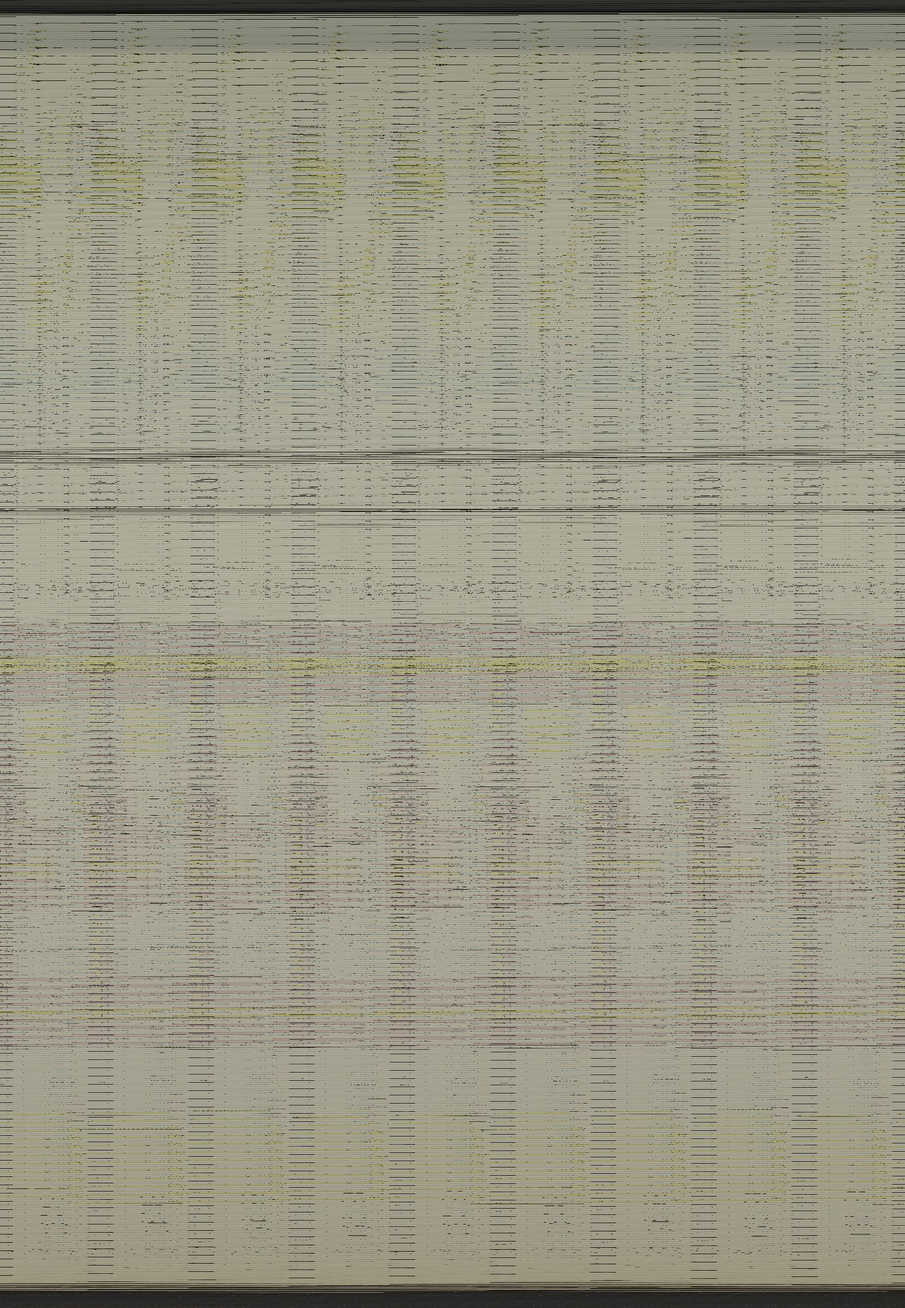
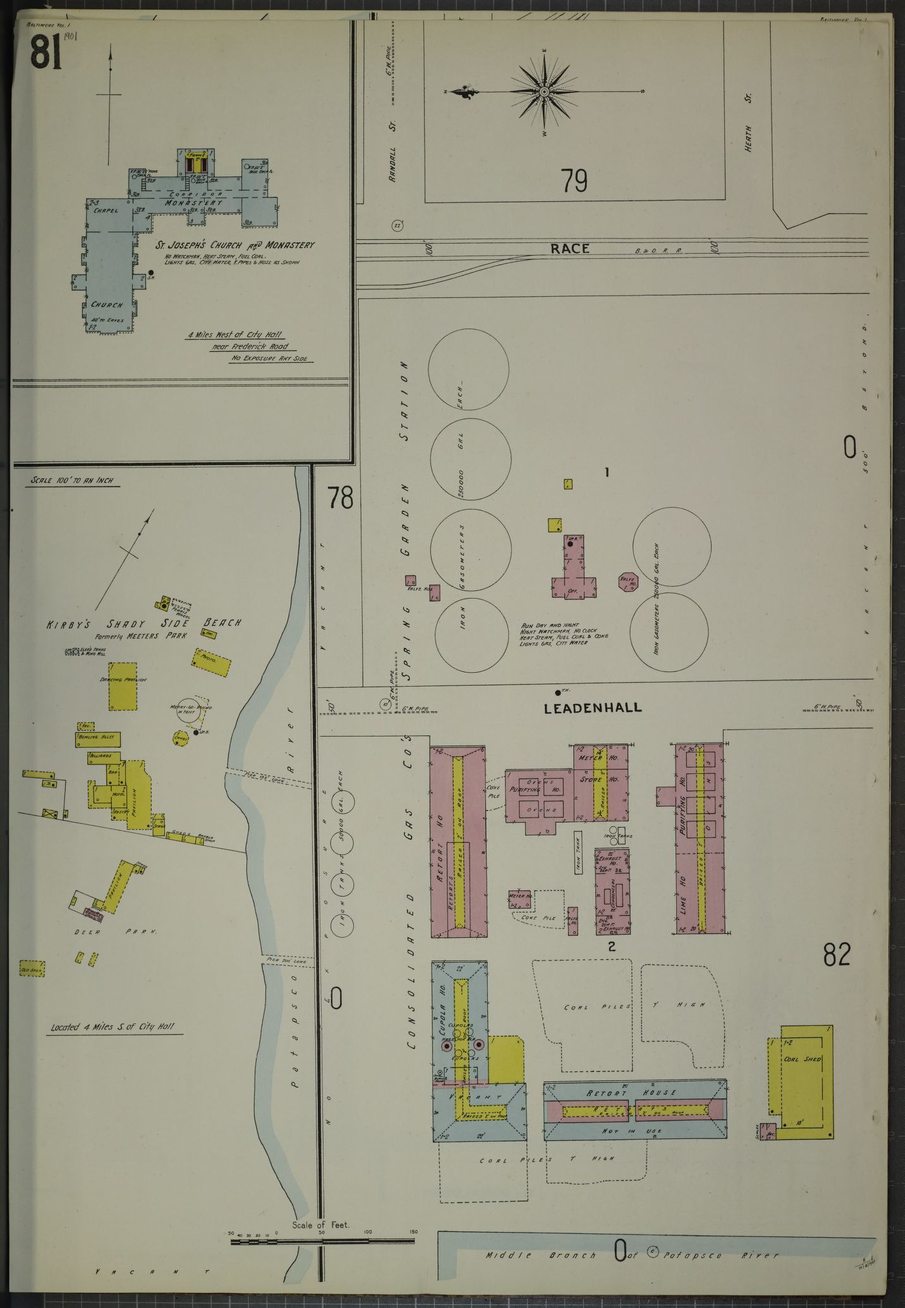
design change

Changed region(s): [[0.0, 0.0, 1.0, 1.0]]

diff --git a/static/energy_urbanization/index.html b/static/energy_urbanization/index.html
@@ -20,7 +20,7 @@
     <img src="images/gasworks.jpg" alt="">
   </figure>
   <section class="home-hero">
-    <h1>Energy and Urbanization</h1>
+    <h1>Energetic Urbanization</h1>
     <p class="lede"> Iterative processes of energy transformation and industrial change reshape the social and spatial organization of cities. Understanding how cities are structured today requires a longer view of this energetic and environmental history.</p>
     <!-- Filled by js/tally.js, which reads the counts straight from the workbook. -->
     <p class="map-tally" id="map-tally" data-workbook="data/atlas.xlsx"></p>

diff --git a/static/energy_urbanization/map.html b/static/energy_urbanization/map.html
@@ -3,7 +3,7 @@
 <head>
 <meta charset="utf-8">
 <meta name="viewport" content="width=device-width, initial-scale=1">
-<title>MGI Atlas</title>
+<title>Coal Gas Atlas</title>
 <link rel="preconnect" href="https://fonts.googleapis.com">
 <link rel="preconnect" href="https://fonts.gstatic.com" crossorigin>
 <link href="https://fonts.googleapis.com/css2?family=Literata:ital,opsz,wght@0,7..72,400;0,7..72,600;1,7..72,400&family=Public+Sans:wght@400;600&display=swap" rel="stylesheet">

diff --git a/themes/blowfish/assets/css/custom.css b/themes/blowfish/assets/css/custom.css
@@ -25,7 +25,7 @@ a.text-base.font-medium.text-gray-500.hover\:text-gray-900 {
    Tailwind's "md" breakpoint (853px) was too narrow for the full menu text,
    so items wrapped onto two lines just before the hamburger took over.
    Force the collapsed (hamburger) state until 1024px instead. */
-@media (min-width: 853px) and (max-width: 1125px) {
+@media (min-width: 853px) and (max-width: 853px) {
   .main-menu nav.hidden.md\:flex {
     display: none;
   }

diff --git a/static/energy_urbanization/js/site.js b/static/energy_urbanization/js/site.js
@@ -3,8 +3,8 @@
    and footer on EVERY page at once.
    ========================================================== */
 const SITE = {
-  title: "Energy and Urbanization",                 // <- replace with your project name
-  tagline: "A short line describing the project",
+  title: "Energetic Urbanization",                 // <- replace with your project name
+  tagline: "",
 
   // Menu items: label shown, and the page it links to
   menu: [

diff --git a/content/_index.md b/content/_index.md
@@ -6,6 +6,8 @@ layout: "simple"
 &nbsp; &nbsp; &nbsp; **University of Chicago,**  Department of Sociology and Mansueto Institute for Urban Innovation
 
 
+
+
 <img src="/images/portrait_square.jpeg" style="float: left; width: 26.5%; margin:0 1.25rem 0rem 0">
 </a>
 
@@ -16,8 +18,11 @@ My research focuses on society-environment relations and linked social-environme
 My work has appeared in *Social Forces*, *City & Community*, and *Social Studies of Science*, among others, and has been supported by the National Institute of Standards and Technology, the Superfund Research Program of the NIEHS, CROCUS (Argonne National Laboratory), and the SEEKCommons Project (NSF award #2226425). Explore my work using the tiles below.
 
 
+<div style="text-align: center;">
+{{< button href="https://jonathantollefson.com/energy_urbanization/" target="_blank" >}} Energetic Urbanization Atlas ↗ {{< /button >}}
+</div>
 
-
+<br />
 
 
 
